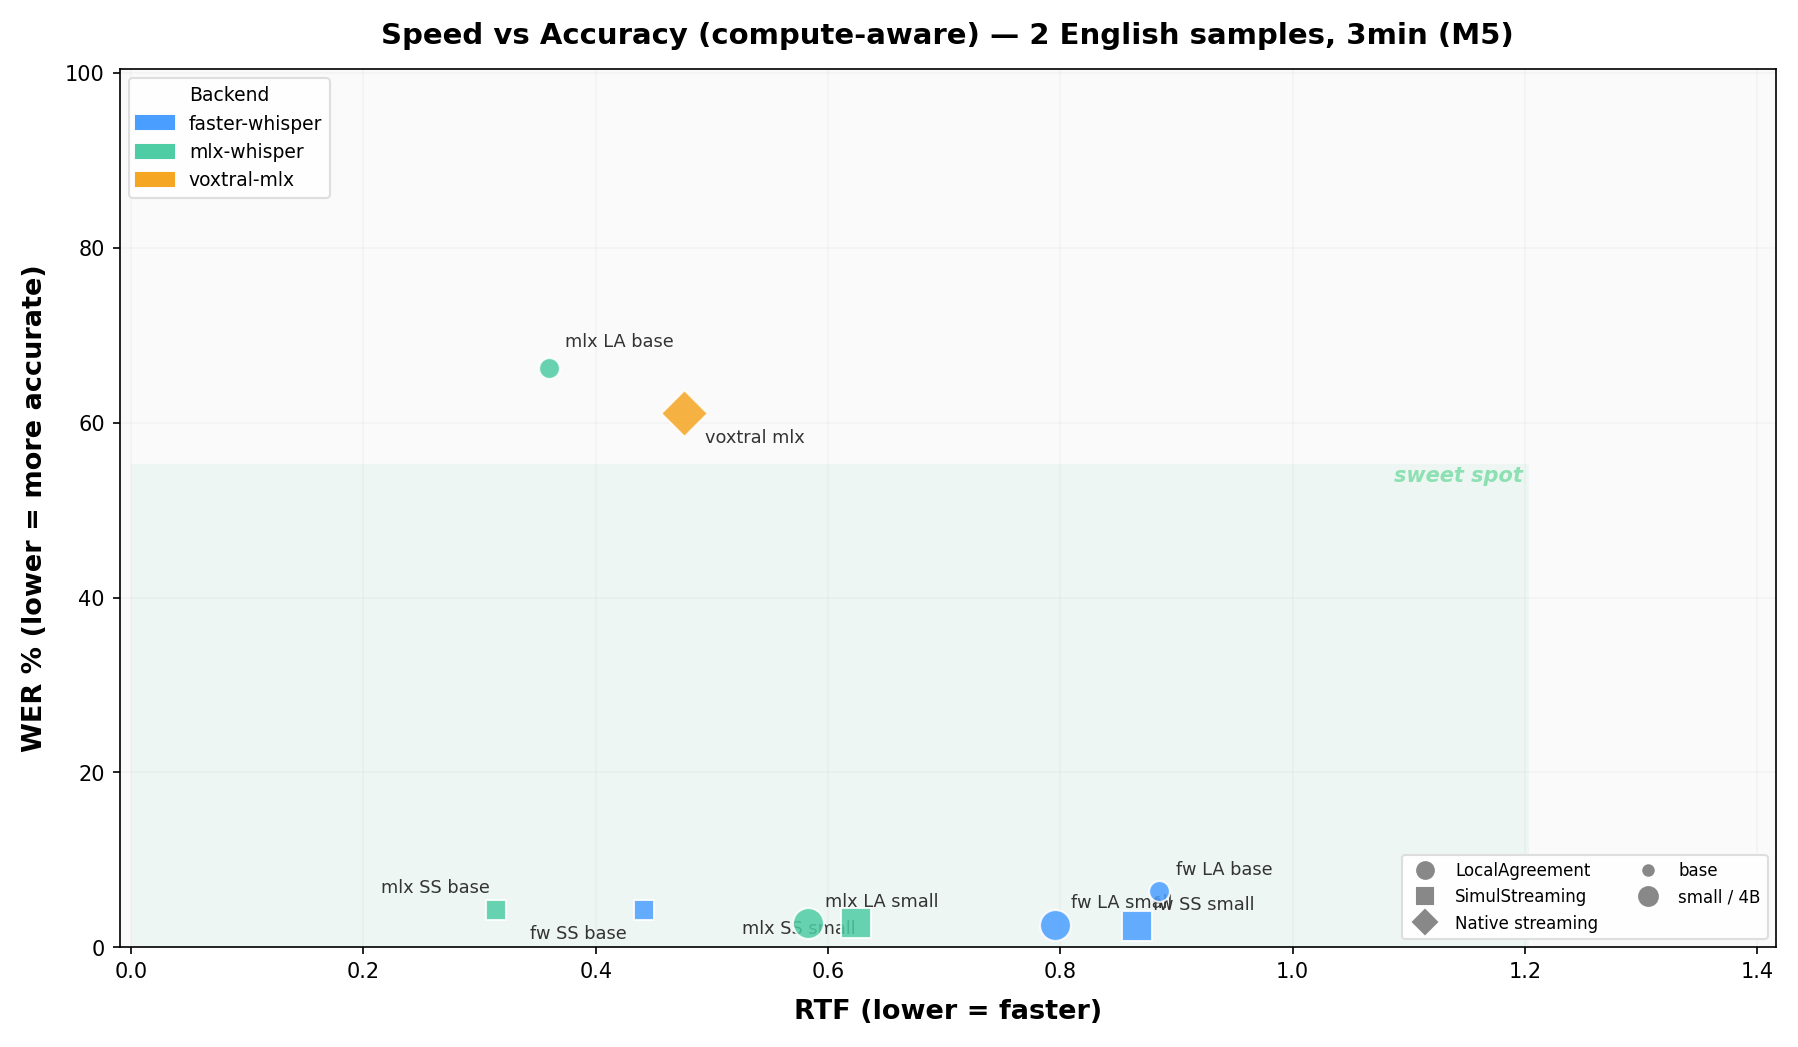
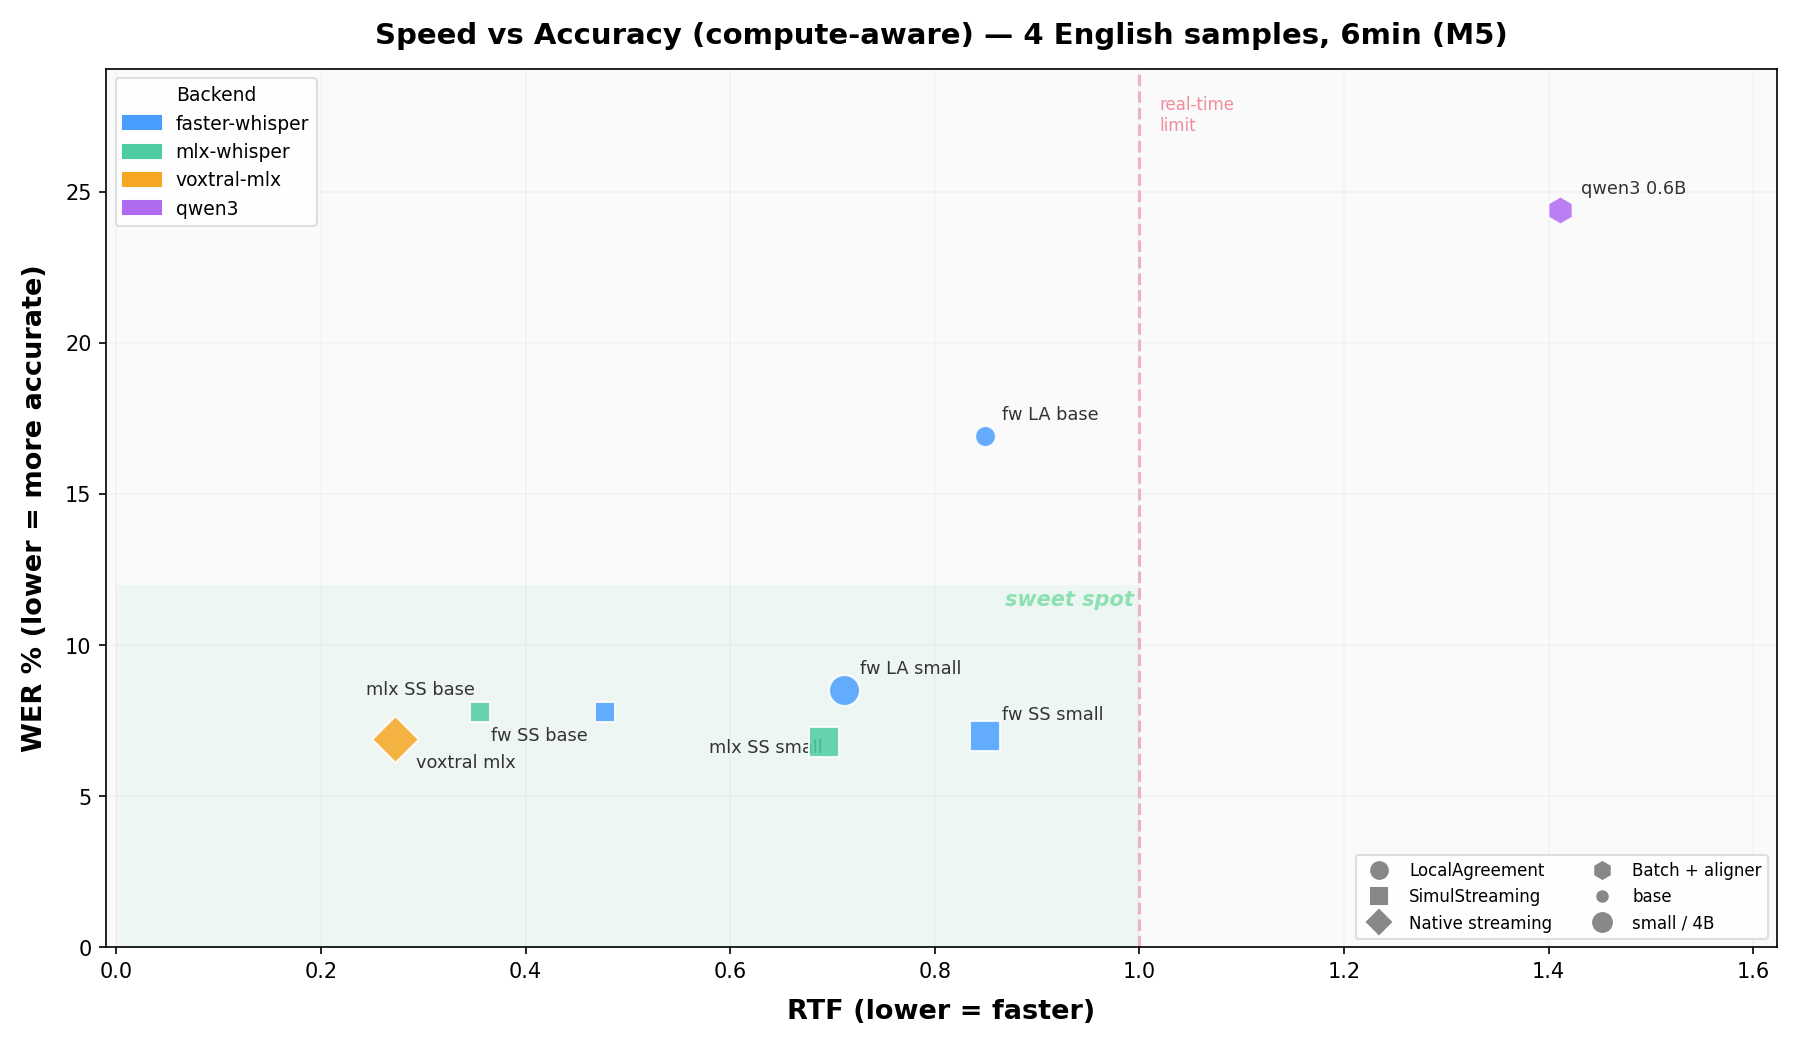
update benchmark with qwen3 which reuses kv cache

diff --git a/whisperlivekit/voxtral_mlx_asr.py b/whisperlivekit/voxtral_mlx_asr.py
@@ -34,6 +34,11 @@ logger = logging.getLogger(__name__)
 # Decoder sliding-window size (matches the model's training configuration).
 _DECODER_WINDOW = 8192
 
+# Maximum continuous decoding positions before forcing a reset.
+# Beyond ~20s of continuous audio the autoregressive context drifts and
+# produces hallucination.  20s / 80ms per token = 250 tokens.
+_MAX_CONTINUOUS_POSITIONS = 250
+
 
 def _prompt_tokens(tokenizer, n_left_pad=LEFT_PAD_TOKENS, n_delay=6):
     """Build the prompt token sequence and return ``(token_ids, n_delay)``."""
@@ -152,6 +157,7 @@ class VoxtralMLXOnlineProcessor:
         self._last_token: mx.array | None = None
         # Bookkeeping
         self._samples_encoded = 0
+        self._real_samples_encoded = 0  # only real audio, excludes silence padding
         self._positions_decoded = 0
         self._prefilled = False
         self._first_chunk = True
@@ -191,6 +197,7 @@ class VoxtralMLXOnlineProcessor:
         self.end = audio_stream_end_time
         self._pending_chunks.append(audio)
         self._pending_len += len(audio)
+        self._real_samples_encoded += len(audio)
         self.audio_buffer = audio  # diagnostic only
 
     # -- core processing --
@@ -203,14 +210,28 @@ class VoxtralMLXOnlineProcessor:
             return [], self.end
 
     def _step(self, is_last: bool) -> Tuple[List[ASRToken], float]:
+        # 0. Safety cap: if continuous decoding exceeds the limit, force a
+        #    flush+reset to prevent hallucination even without VAD silence.
+        if self._prefilled and self._positions_decoded >= _MAX_CONTINUOUS_POSITIONS + self._prefix_len:
+            logger.info(
+                "[voxtral-mlx] continuous decoding cap hit at %d positions — "
+                "forcing flush+reset",
+                self._positions_decoded,
+            )
+            words = self._flush_and_reset()
+            return words, self.end
+
         # 1. Encode any new audio
         self._encode_pending()
 
         if self._audio_embeds is None:
             return [], self.end
 
-        # 2. Compute how many positions we can safely decode
-        total_safe = LEFT_PAD_TOKENS + self._samples_encoded // SAMPLES_PER_TOKEN
+        # 2. Compute how many positions we can safely decode.
+        # The safe boundary prevents the decoder from running ahead of the
+        # audio encoder. _samples_encoded tracks only real audio (not
+        # silence padding), so positions beyond this produce hallucination.
+        total_safe = LEFT_PAD_TOKENS + self._real_samples_encoded // SAMPLES_PER_TOKEN
         n_available = self._audio_embeds.shape[0]
         n_decodable = min(n_available, total_safe - self._positions_decoded)
 
@@ -229,11 +250,19 @@ class VoxtralMLXOnlineProcessor:
         if n_decodable <= 0 or self._audio_embeds is None:
             return [], self.end
 
+        # Clamp to the continuous decoding cap so we don't overshoot
+        max_left = _MAX_CONTINUOUS_POSITIONS + self._prefix_len - self._positions_decoded
+        if max_left > 0:
+            n_decodable = min(n_decodable, max_left)
+        else:
+            # Will be caught by the cap check on the next call
+            return self._extract_committed_words(), self.end
+
         # 4. Decode available positions
         hit_eos = self._decode_positions(n_decodable)
 
         if hit_eos:
-            # Flush words, reset for next utterance
+            # Flush words, then full reset for next utterance
             words = self._flush_all_words()
             logger.debug(
                 "[voxtral-mlx] EOS hit during stream: flushed %d words, "
@@ -242,9 +271,12 @@ class VoxtralMLXOnlineProcessor:
                 self._samples_encoded / self.SAMPLING_RATE,
                 self._full_text[-60:] if self._full_text else "",
             )
-            saved_offset = self._time_offset
+            new_offset = self._time_offset + self._real_samples_encoded / self.SAMPLING_RATE
+            saved_end = self.end
             self._reset_state()
-            self._time_offset = saved_offset
+            self._time_offset = new_offset
+            self.end = saved_end
+            mx.clear_cache()
             return words, self.end
 
         # 5. Extract committed words (all but the last, which may still grow)
@@ -451,12 +483,66 @@ class VoxtralMLXOnlineProcessor:
             return Transcript(start=self.end, end=self.end, text=" ".join(remaining))
         return Transcript(start=None, end=None, text="")
 
-    def start_silence(self) -> Tuple[List[ASRToken], float]:
-        """Flush all pending words when silence starts.
+    def _safe_decode_remaining(self):
+        """Decode remaining audio embeddings, respecting the safe boundary.
 
-        Adds right-padding silence and forces a full decode pass so the
-        decoder emits tokens for the last words of speech. Without this,
-        the model holds back the final tokens waiting for future context.
+        Uses the same guard as ``_step`` to avoid decoding positions that
+        are beyond the real audio frontier, which causes hallucination.
+        """
+        if self._audio_embeds is None or not self._prefilled:
+            return
+        # Use the same formula as _step() — this excludes padding positions
+        total_safe = LEFT_PAD_TOKENS + self._samples_encoded // SAMPLES_PER_TOKEN
+        n_available = self._audio_embeds.shape[0]
+        n_decodable = min(n_available, max(0, total_safe - self._positions_decoded))
+        # Cap at RIGHT_PAD_TOKENS to only decode the padding needed for
+        # the model to emit final tokens, not all accumulated padding
+        n_decodable = min(n_decodable, RIGHT_PAD_TOKENS)
+        if n_decodable > 0:
+            self._decode_positions(n_decodable)
+
+    def _flush_last_token_text(self):
+        """Add the last pending token's text (if not EOS) to _full_text."""
+        if self._last_token is None:
+            return
+        tid = self._last_token.item()
+        if tid == self._eos_id:
+            return
+        text = self._tokenizer.decode(
+            [tid], special_token_policy=SpecialTokenPolicy.IGNORE
+        )
+        if not text:
+            return
+        last_pos = self._positions_decoded - self._prefix_len
+        if text.lstrip() != text or not self._full_text:
+            if self._current_word_pos is not None:
+                self._word_audio_ends.append(last_pos)
+            self._word_audio_starts.append(last_pos)
+            self._current_word_pos = last_pos
+        elif self._current_word_pos is None:
+            self._word_audio_starts.append(last_pos)
+            self._current_word_pos = last_pos
+        self._full_text += text
+        self._n_text_tokens += 1
+
+    def _close_current_word(self):
+        """Close the last word if one is being built."""
+        if self._current_word_pos is not None:
+            last_pos = self._positions_decoded - self._prefix_len
+            self._word_audio_ends.append(last_pos)
+            self._current_word_pos = None
+
+    def _flush_and_reset(self) -> List[ASRToken]:
+        """Flush pending audio, decode remaining, extract all words, then
+        fully reset both encoder and decoder state.
+
+        Used at silence boundaries and when the continuous decoding cap is
+        hit.  A full reset (encoder + decoder) is necessary because the
+        encoder's incremental state (conv tails, KV caches) contains history
+        that would produce embeddings incompatible with a freshly-initialised
+        decoder.  After reset ``_first_chunk=True``, so the next audio chunk
+        receives proper left-padding and both encoder and decoder start in
+        sync.
         """
         # Align pending audio to SAMPLES_PER_TOKEN boundary
         remainder = self._pending_len % SAMPLES_PER_TOKEN
@@ -471,37 +557,40 @@ class VoxtralMLXOnlineProcessor:
         # Encode remaining audio (including right-padding)
         self._encode_pending()
 
-        # Decode everything that's left
-        if self._audio_embeds is not None and self._prefilled:
-            self._decode_positions(self._audio_embeds.shape[0])
+        # Decode only positions backed by real audio
+        self._safe_decode_remaining()
 
-        # Flush last token if it wasn't EOS
-        if self._last_token is not None:
-            tid = self._last_token.item()
-            if tid != self._eos_id:
-                text = self._tokenizer.decode(
-                    [tid], special_token_policy=SpecialTokenPolicy.IGNORE
-                )
-                if text:
-                    last_pos = self._positions_decoded - self._prefix_len
-                    if text.lstrip() != text or not self._full_text:
-                        if self._current_word_pos is not None:
-                            self._word_audio_ends.append(last_pos)
-                        self._word_audio_starts.append(last_pos)
-                        self._current_word_pos = last_pos
-                    elif self._current_word_pos is None:
-                        self._word_audio_starts.append(last_pos)
-                        self._current_word_pos = last_pos
-                    self._full_text += text
-                    self._n_text_tokens += 1
-
-        # Close the last word if still open
-        if self._current_word_pos is not None:
-            last_pos = self._positions_decoded - self._prefix_len
-            self._word_audio_ends.append(last_pos)
-            self._current_word_pos = None
+        self._flush_last_token_text()
+        self._close_current_word()
 
         words = self._flush_all_words()
+
+        # Compute time offset: the decoded audio covers up to this point
+        new_offset = self._time_offset + self._real_samples_encoded / self.SAMPLING_RATE
+        saved_end = self.end
+
+        # Full reset — encoder AND decoder.  The encoder's incremental
+        # state (conv tails, transformer KV caches) carries history from
+        # the previous segment; keeping it would make the next set of
+        # embeddings incompatible with a fresh decoder prefill.
+        self._reset_state()
+        self._time_offset = new_offset
+        self.end = saved_end
+
+        # Free MLX caches eagerly
+        mx.clear_cache()
+
+        return words
+
+    def start_silence(self) -> Tuple[List[ASRToken], float]:
+        """Flush all pending words when silence starts, then fully reset.
+
+        Adds right-padding silence and forces a decode pass so the
+        decoder emits tokens for the last words of speech. After flushing,
+        resets both encoder and decoder state to prevent hallucination from
+        accumulated autoregressive context drift on long audio.
+        """
+        words = self._flush_and_reset()
         logger.info("[voxtral-mlx] start_silence: flushed %d words", len(words))
         return words, self.end
 
@@ -529,10 +618,7 @@ class VoxtralMLXOnlineProcessor:
 
         # Align pending audio to SAMPLES_PER_TOKEN boundary so nothing is lost
         remainder = self._pending_len % SAMPLES_PER_TOKEN
-        if remainder > 0:
-            align_pad = SAMPLES_PER_TOKEN - remainder
-        else:
-            align_pad = 0
+        align_pad = (SAMPLES_PER_TOKEN - remainder) if remainder > 0 else 0
 
         # Add alignment + right-padding silence
         total_pad = align_pad + RIGHT_PAD_TOKENS * SAMPLES_PER_TOKEN
@@ -543,48 +629,11 @@ class VoxtralMLXOnlineProcessor:
         # Encode remaining audio (including right-padding)
         self._encode_pending()
 
-        logger.debug(
-            "[voxtral-mlx] finish after encode: audio_embeds=%s, pending=%d",
-            self._audio_embeds.shape if self._audio_embeds is not None else None,
-            self._pending_len,
-        )
+        # Decode only positions backed by real audio
+        self._safe_decode_remaining()
 
-        hit_eos = False
-
-        # Decode everything that's left from right-padding
-        if self._audio_embeds is not None and self._prefilled:
-            hit_eos = self._decode_positions(self._audio_embeds.shape[0])
-            logger.debug(
-                "[voxtral-mlx] finish decode: hit_eos=%s, text='%s'",
-                hit_eos, self._full_text[-80:] if self._full_text else "",
-            )
-
-        # Flush last token if it wasn't EOS
-        if self._last_token is not None:
-            tid = self._last_token.item()
-            if tid != self._eos_id:
-                text = self._tokenizer.decode(
-                    [tid], special_token_policy=SpecialTokenPolicy.IGNORE
-                )
-                if text:
-                    last_pos = self._positions_decoded - self._prefix_len
-                    # Check if this starts a new word
-                    if text.lstrip() != text or not self._full_text:
-                        if self._current_word_pos is not None:
-                            self._word_audio_ends.append(last_pos)
-                        self._word_audio_starts.append(last_pos)
-                        self._current_word_pos = last_pos
-                    elif self._current_word_pos is None:
-                        self._word_audio_starts.append(last_pos)
-                        self._current_word_pos = last_pos
-                    self._full_text += text
-                    self._n_text_tokens += 1
-
-        # Close the last word if still open
-        if self._current_word_pos is not None:
-            last_pos = self._positions_decoded - self._prefix_len
-            self._word_audio_ends.append(last_pos)
-            self._current_word_pos = None
+        self._flush_last_token_text()
+        self._close_current_word()
 
         words = self._flush_all_words()
         logger.info("[voxtral-mlx] finish: flushed %d words", len(words))

diff --git a/scripts/run_scatter_benchmark.py b/scripts/run_scatter_benchmark.py
@@ -227,27 +227,32 @@ def generate_scatter(results, system_info, output_path, n_samples, lang="en",
     fig, ax = plt.subplots(figsize=(12, 7), facecolor="white")
     ax.set_facecolor("#fafafa")
 
-    # Separate main cluster from outliers (RTF > 1.0)
-    main = [r for r in results if r["rtf"] <= 1.0]
-    slow = [r for r in results if r["rtf"] > 1.0]
+    # Show ALL points on chart (no outlier exclusion)
+    main = results
+    slow = []
 
-    # Axis limits: tight around main data
+    # Axis limits: fit all data
     if main:
-        xmax = max(r["rtf"] for r in main) * 1.6
-        ymax = max(r["wer_pct"] for r in main) * 1.5 + 1
+        xmax = max(r["rtf"] for r in main) * 1.15
+        ymax = max(r["wer_pct"] for r in main) * 1.15 + 1
     else:
         xmax, ymax = 0.5, 10
-    xmax = max(xmax, 0.45)
+    xmax = max(xmax, 1.15)  # always show the real-time line
     ymax = max(ymax, 8)
 
-    # Sweet spot zone
-    sweet_x = xmax * 0.85
-    sweet_y = ymax * 0.55
+    # Sweet spot zone: RTF < 1.0 (real-time) and WER < 12%
+    sweet_x = min(1.0, xmax * 0.85)
+    sweet_y = min(12, ymax * 0.45)
     rect = plt.Rectangle((0, 0), sweet_x, sweet_y, alpha=0.07, color="#4ecca3",
                           zorder=0, linewidth=0)
     ax.add_patch(rect)
     ax.text(sweet_x - 0.005, sweet_y - 0.15, "sweet spot", ha="right", va="top",
             fontsize=10, color="#2ecc71", fontstyle="italic", fontweight="bold", alpha=0.5)
+
+    # Real-time limit line
+    ax.axvline(x=1.0, color="#e94560", linestyle="--", linewidth=1.5, alpha=0.4, zorder=1)
+    ax.text(1.02, ymax * 0.97, "real-time\nlimit", fontsize=8, color="#e94560",
+            va="top", alpha=0.6)
 
     # Manual label offsets keyed by label name — hand-tuned
     OFFSETS = {

diff --git a/README.md b/README.md
@@ -126,13 +126,13 @@ uv sync --extra cu129 --extra voxtral-hf --extra translation
 See **Parameters & Configuration** below on how to use them.
 
 <p align="center">
-<img src="benchmark_scatter_en_unaware.png" alt="Speed vs Accuracy — English, compute-unaware" width="700">
+<img src="benchmark_scatter_en_aware.png" alt="Speed vs Accuracy — English" width="700">
 </p>
 <p align="center">
-<img src="benchmark_scatter_en_aware.png" alt="Speed vs Accuracy — English, compute-aware" width="700">
+<img src="benchmark_scatter_fr_aware.png" alt="Speed vs Accuracy — French" width="700">
 </p>
 
-Benchmarks use public audio from [LibriSpeech](https://huggingface.co/datasets/openslr/librispeech_asr) and [Multilingual LibriSpeech](https://huggingface.co/datasets/facebook/multilingual_librispeech) — fully reproducible with `python scripts/run_scatter_benchmark.py`.
+Benchmarks use 6 minutes of public [LibriVox](https://librivox.org/) audiobook recordings per language (30s + 60s + 120s + 180s), with ground truth from [Project Gutenberg](https://www.gutenberg.org/). Fully reproducible with `python scripts/run_scatter_benchmark.py`.
 We are actively looking for benchmark results on other hardware (NVIDIA GPUs, different Apple Silicon chips, cloud instances). If you run the benchmarks on your machine, please share your results via an issue or PR!
 
 
